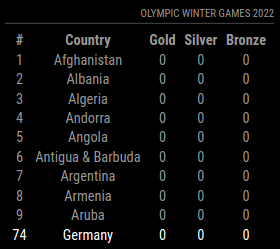
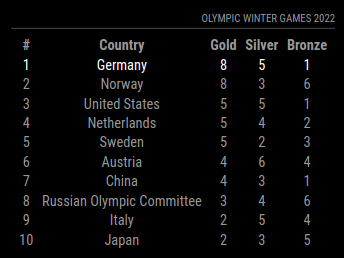
updated preview images

diff --git a/README.md b/README.md
@@ -4,7 +4,7 @@ Olympic Games Module for MagicMirror<sup>2</sup>
 
 ## Example
 
-![](.github/medals.png)
+![](.github/medals.png) ![](.github/countries.png)
 
 ## Dependencies
 

diff --git a/CHANGELOG.md b/CHANGELOG.md
@@ -10,6 +10,8 @@
 
 ### Changed
 
+* Updated preview images
+
 ### Removed
 
 ## [1.2.0]
